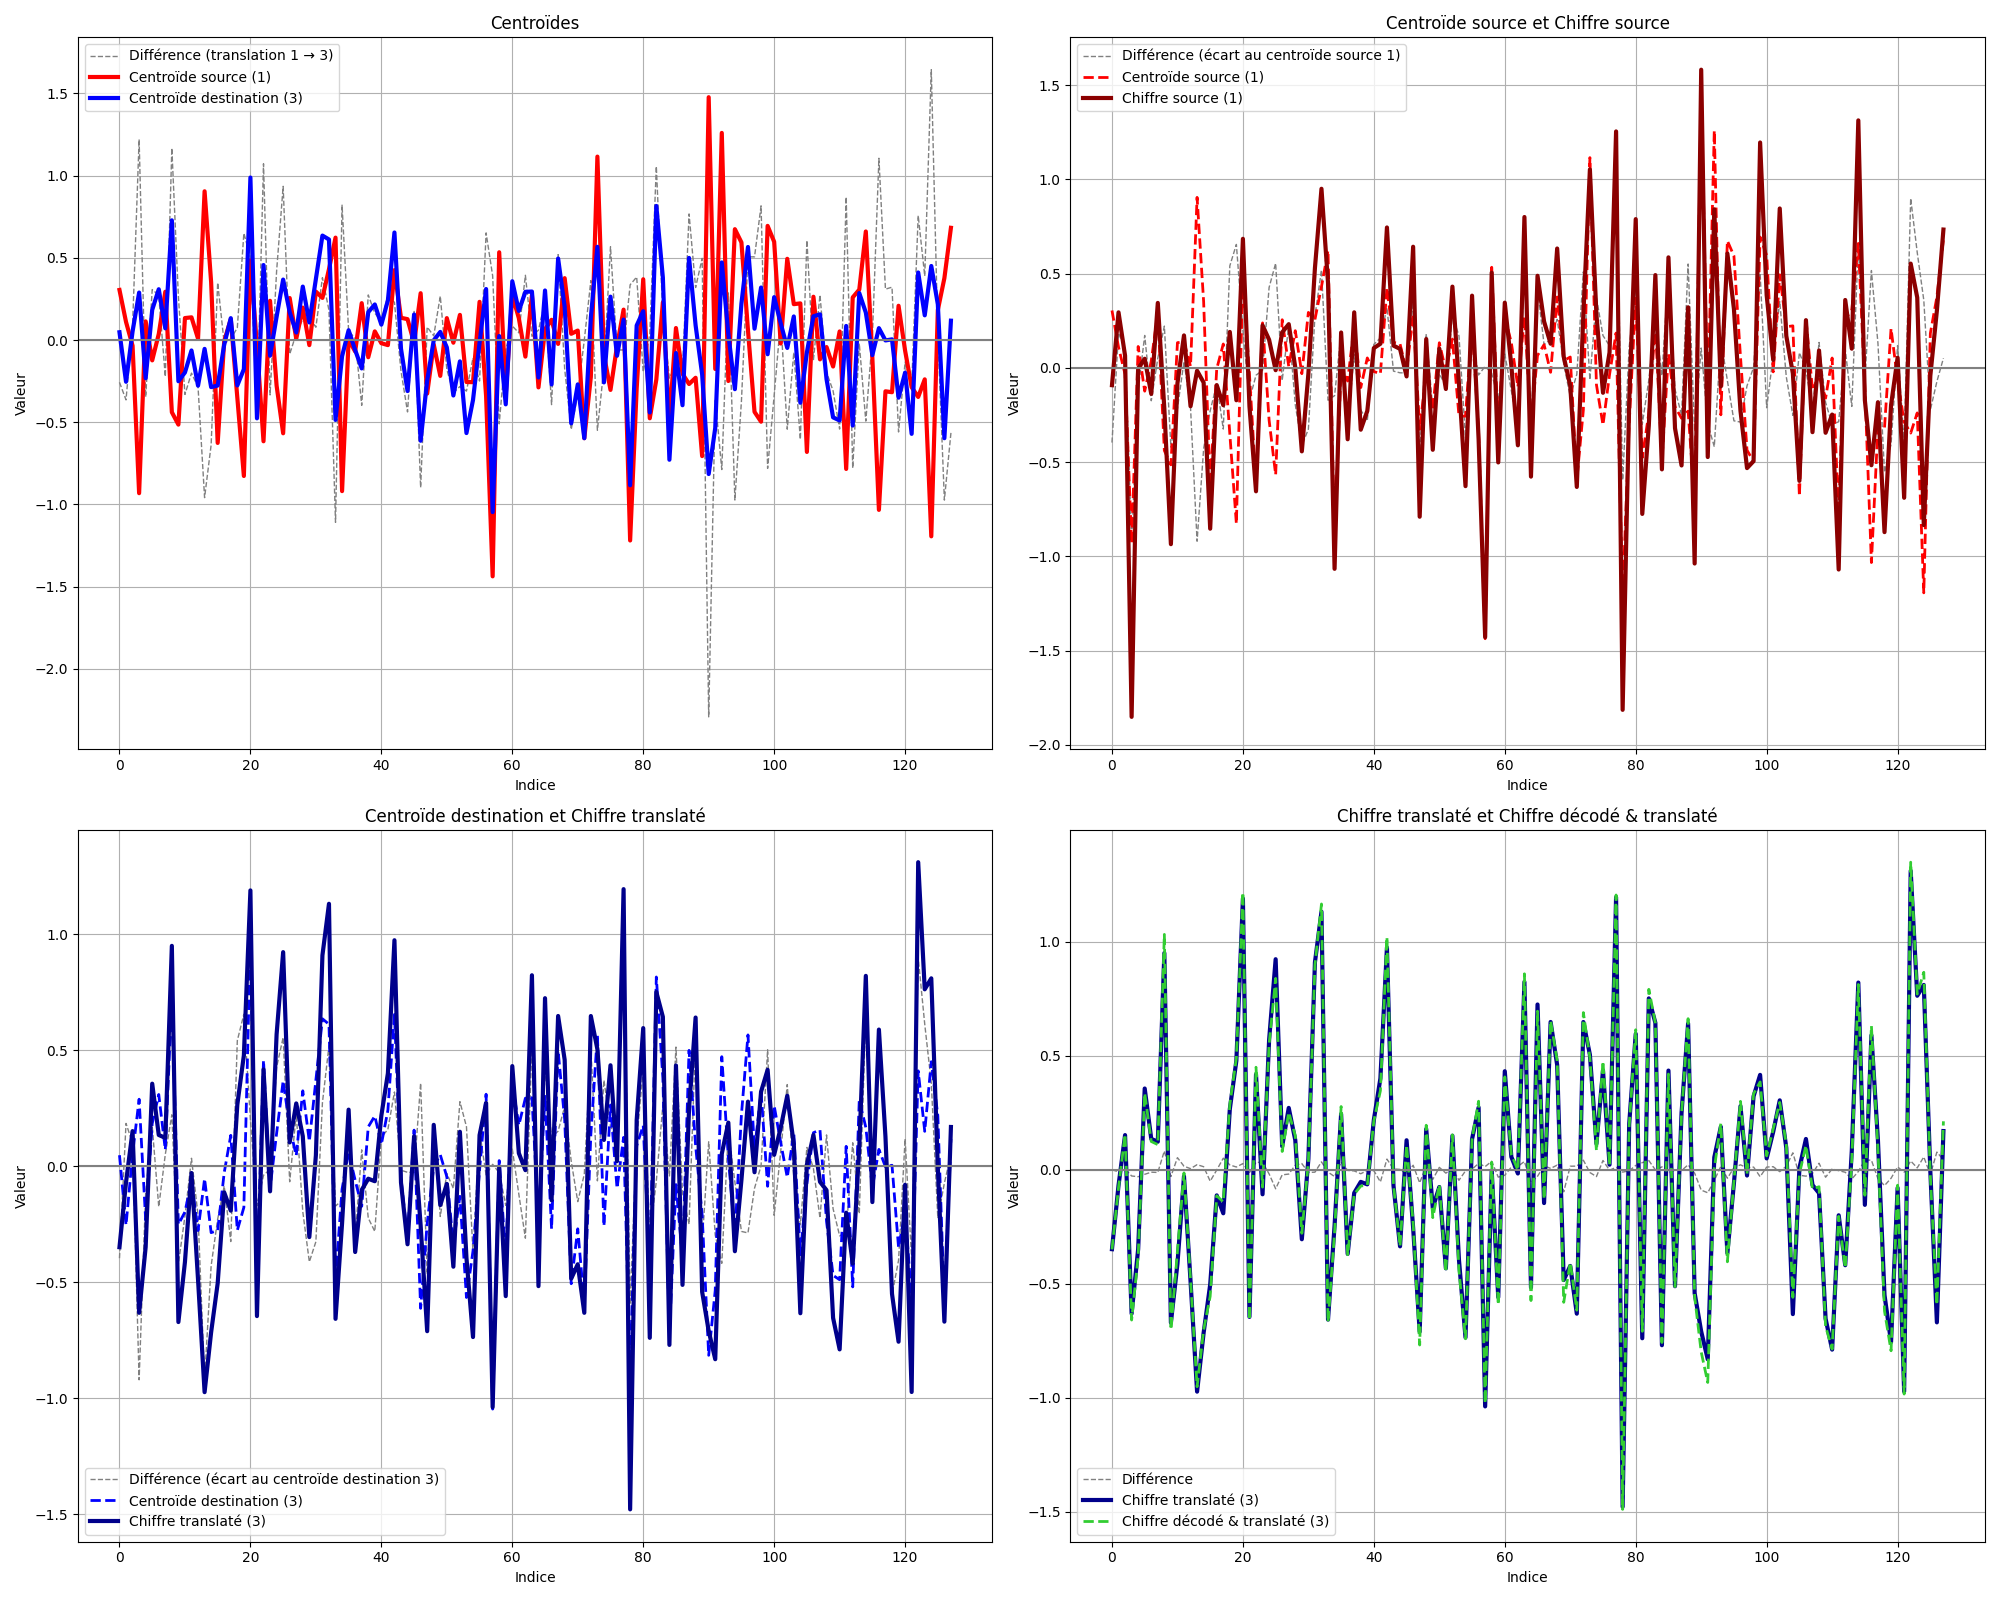
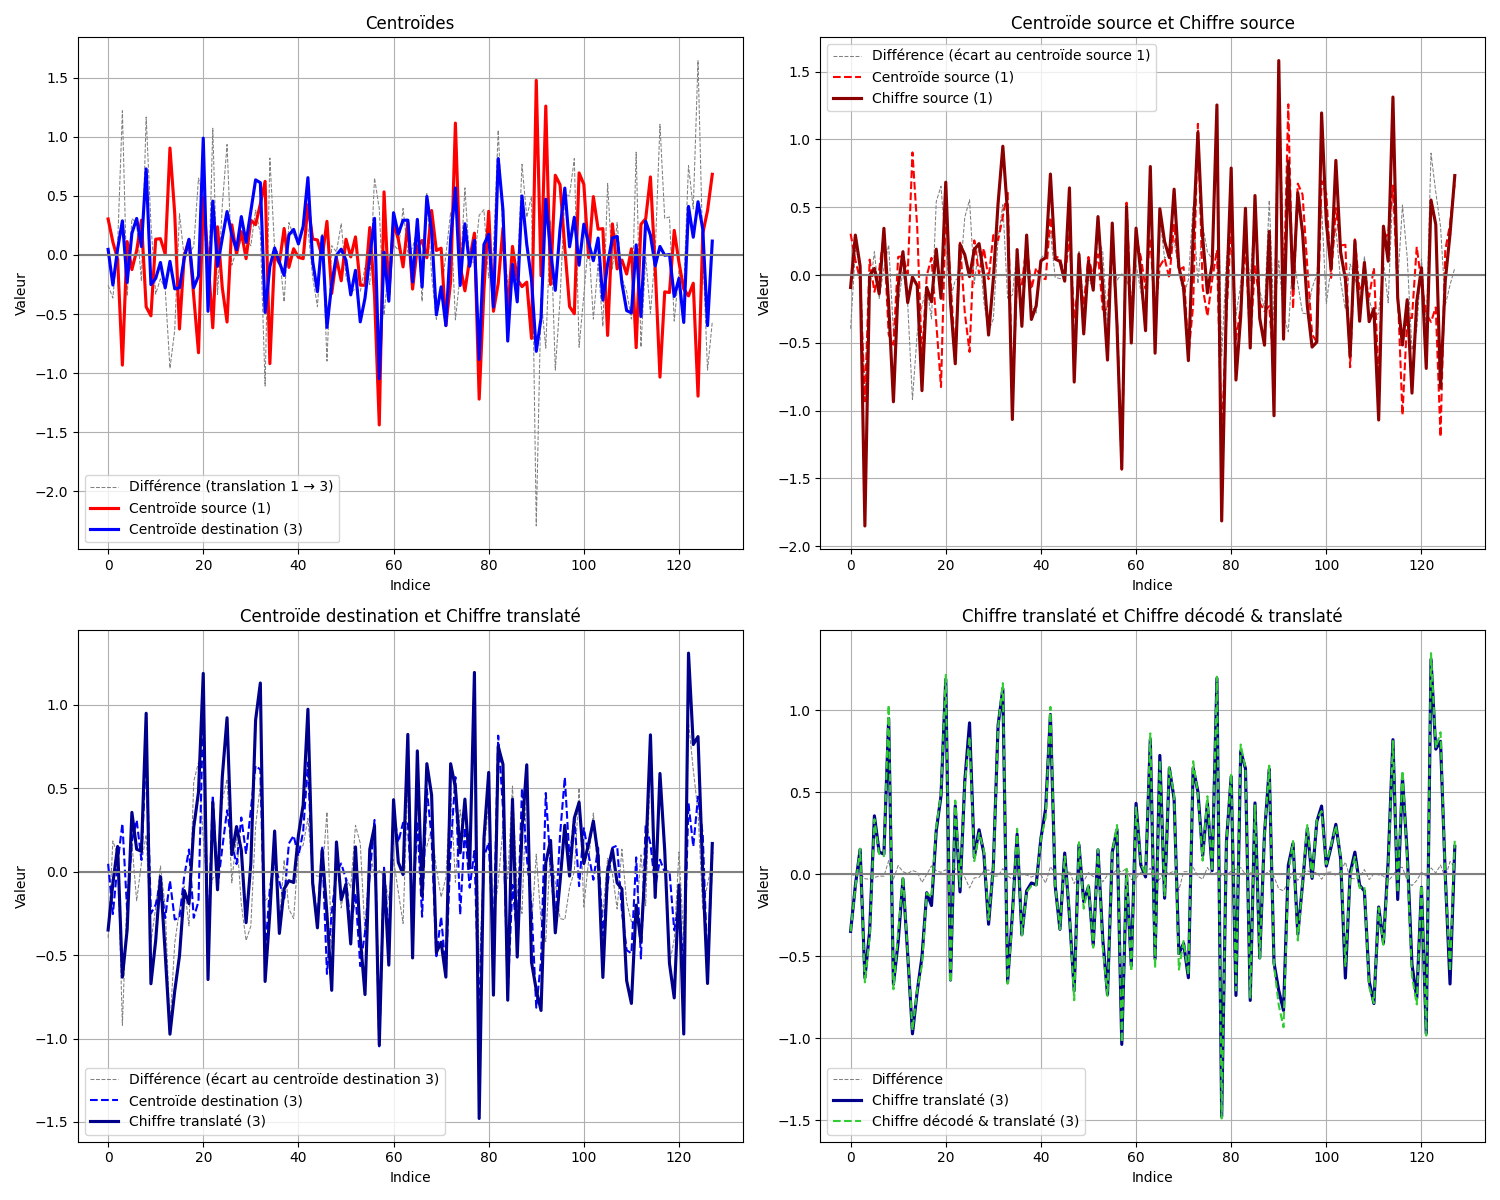
Added results

diff --git a/Code/MNIST/MNIST-New-Model-Translation-Plot.py b/Code/MNIST/MNIST-New-Model-Translation-Plot.py
@@ -26,9 +26,9 @@ X_valid = X_valid.reshape(-1, 28, 28, 1)
 X_train = tf.image.resize(X_train, (64, 64))
 X_valid = tf.image.resize(X_valid, (64, 64))
 
-src_digit = 9415
+src_digit = 1303
 src_class = Y_valid[src_digit]
-dst_class = 3
+dst_class = 6
 
 batch_size = 32
 
@@ -57,30 +57,53 @@ translation = mean_encoded_dst - mean_encoded_src
 translated1 = X_encoded_valid + translation
 translated2 = X_rereencoded_valid + translation
 
-fig, axes = plt.subplots(2, 2, figsize=(20, 16))
+translated_decoded1 = decoder.predict(translated1, batch_size = batch_size)
+translated_decoded2 = decoder.predict(translated2, batch_size = batch_size)
+
+plt.figure(figsize=(9, 3))
+
+plt.subplot(1, 3, 1)
+plt.imshow(X_valid.numpy()[src_digit].reshape(64, 64))
+plt.axis("off")
+plt.title("Source")
+
+plt.subplot(1, 3, 2)
+plt.imshow(translated_decoded1[0].reshape(64, 64))
+plt.axis("off")
+plt.title("Décodé")
+
+plt.subplot(1, 3, 3)
+plt.imshow(translated_decoded2[0].reshape(64, 64))
+plt.axis("off")
+plt.title("2x Décodé")
+
+plt.tight_layout()
+plt.savefig(f"./Results/mnist-translation-decoded-{src_class}-{dst_class}.png")
+
+fig, axes = plt.subplots(2, 2, figsize=(15, 12))
 axes = axes.ravel()
 
-axes[0].plot(mean_encoded_dst[0] - mean_encoded_src[0], color="gray", ls="--", lw=1, label=f"Différence (translation {src_class} → {dst_class})")
-axes[0].plot(mean_encoded_src[0], color="red", lw=3, label=f"Centroïde source ({src_class})")
-axes[0].plot(mean_encoded_dst[0], color="blue", lw=3, label=f"Centroïde destination ({dst_class})")
+axes[0].plot(mean_encoded_dst[0] - mean_encoded_src[0], color="gray", ls="--", lw=0.75, label=f"Différence (translation {src_class} → {dst_class})")
+axes[0].plot(mean_encoded_src[0], color="red", lw=2.25, label=f"Centroïde source ({src_class})")
+axes[0].plot(mean_encoded_dst[0], color="blue", lw=2.25, label=f"Centroïde destination ({dst_class})")
 axes[0].set_title("Centroïdes")
 axes[0].legend()
 
-axes[1].plot(X_encoded_valid[0] - mean_encoded_src[0], color="gray", ls="--", lw=1, label=f"Différence (écart au centroïde source {src_class})")
-axes[1].plot(mean_encoded_src[0], color="red", ls="--", lw=2, label=f"Centroïde source ({src_class})")
-axes[1].plot(X_encoded_valid[0], color="darkred", lw=3, label=f"Chiffre source ({src_class})")
+axes[1].plot(X_encoded_valid[0] - mean_encoded_src[0], color="gray", ls="--", lw=0.75, label=f"Différence (écart au centroïde source {src_class})")
+axes[1].plot(mean_encoded_src[0], color="red", ls="--", lw=1.5, label=f"Centroïde source ({src_class})")
+axes[1].plot(X_encoded_valid[0], color="darkred", lw=2.25, label=f"Chiffre source ({src_class})")
 axes[1].set_title("Centroïde source et Chiffre source")
 axes[1].legend()
 
-axes[2].plot(translated1[0] - mean_encoded_dst[0], color="gray", ls="--", lw=1, label=f"Différence (écart au centroïde destination {dst_class})")
-axes[2].plot(mean_encoded_dst[0], color="blue", ls="--", lw=2, label=f"Centroïde destination ({dst_class})")
-axes[2].plot(translated1[0], color="darkblue", lw=3, label=f"Chiffre translaté ({dst_class})")
+axes[2].plot(translated1[0] - mean_encoded_dst[0], color="gray", ls="--", lw=0.75, label=f"Différence (écart au centroïde destination {dst_class})")
+axes[2].plot(mean_encoded_dst[0], color="blue", ls="--", lw=1.5, label=f"Centroïde destination ({dst_class})")
+axes[2].plot(translated1[0], color="darkblue", lw=2.25, label=f"Chiffre translaté ({dst_class})")
 axes[2].set_title("Centroïde destination et Chiffre translaté")
 axes[2].legend()
 
-axes[3].plot(translated2[0] - translated1[0], color="gray", ls="--", lw=1, label=f"Différence")
-axes[3].plot(translated1[0], color="darkblue", lw=3, label=f"Chiffre translaté ({dst_class})")
-axes[3].plot(translated2[0], color="#32CD32", ls="--", lw=2, label=f"Chiffre décodé & translaté ({dst_class})")
+axes[3].plot(translated2[0] - translated1[0], color="gray", ls="--", lw=0.75, label=f"Différence")
+axes[3].plot(translated1[0], color="darkblue", lw=2.25, label=f"Chiffre translaté ({dst_class})")
+axes[3].plot(translated2[0], color="#32CD32", ls="--", lw=1.5, label=f"Chiffre décodé & translaté ({dst_class})")
 axes[3].set_title("Chiffre translaté et Chiffre décodé & translaté")
 axes[3].legend()
 
